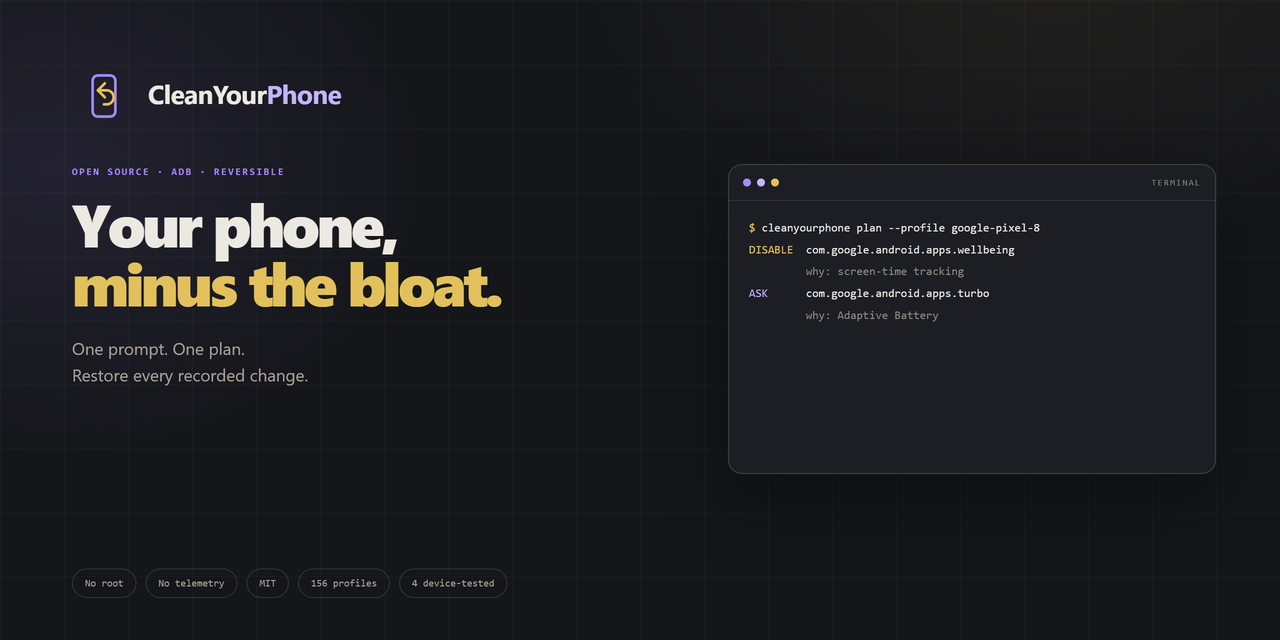
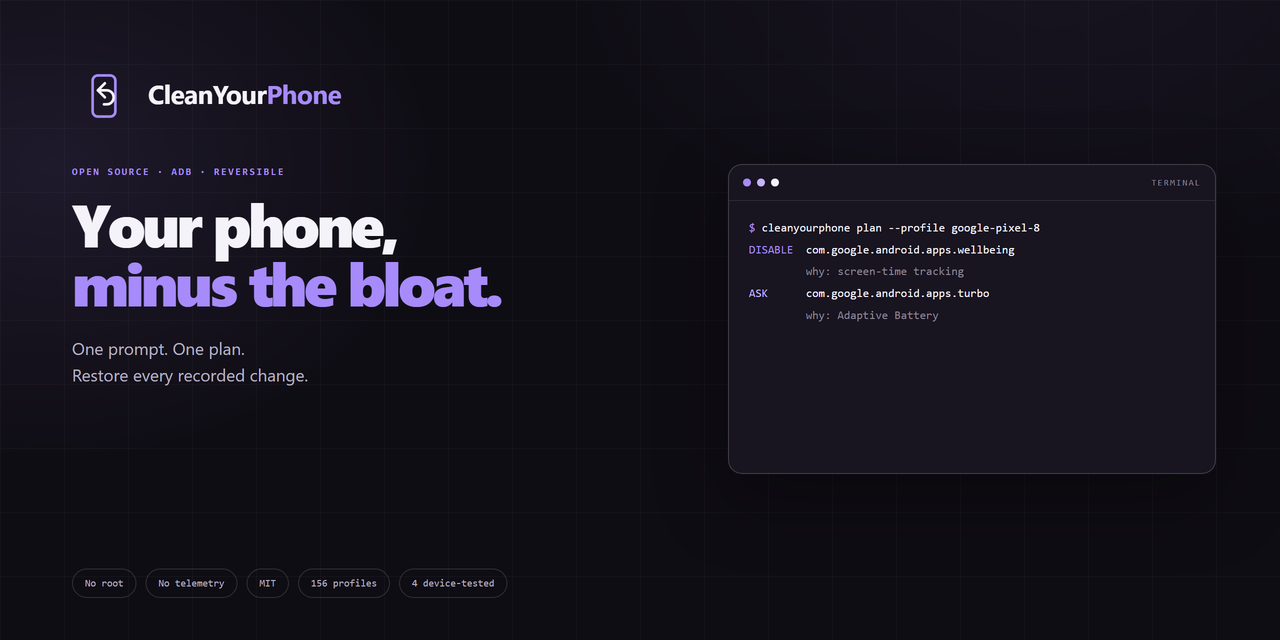
brand: unify on purple and white
- Use the logo purple #A78BFA as the only brand accent, with white text and graphite surfaces.\n- Keep only a light purple tint for ASK.\n- Update logo variants, banner, social preview, README badges and brand guide.

diff --git a/docs/BRAND.md b/docs/BRAND.md
@@ -46,14 +46,13 @@ never irreversible deletion.
 
 | Color | Role |
 |---|---|
-| Graphite `#15161A` | Primary background, icon tile, one-color mark on light surfaces. |
-| Violet `#A78BFA` | Phone structure, commands, links, secondary states and what stays intact. |
-| Gold `#E2C15C` | Return gesture, primary actions and headline accent. |
-| Lavender `#C4B5FD` | Only `ASK` and warning states; never a decorative accent. |
-| Text `#ECE9E2` | Headlines and wordmark on graphite. |
-| Muted `#A8A39B` | Secondary text; never part of the essential symbol. |
+| Graphite `#0F0D14` | Primary background, icon tile, one-color mark on light surfaces. |
+| Purple `#A78BFA` | Phone, return gesture, primary actions, links, commands and the `Phone` wordmark. |
+| Light purple `#C4B5FD` | Only `ASK` and warning states; a tint, never a second brand color. |
+| Text `#F5F3FA` | Headlines and the `CleanYour` wordmark on graphite. |
+| Muted `#B8B2C4` | Secondary text; never part of the essential symbol. |
 
-Gold, violet and lavender are functional accents, not decoration or gradients.
+Purple and white/graphite are the brand colors. The light purple is only a functional tint for `ASK`.
 
 ## Typography
 
@@ -62,8 +61,8 @@ Gold, violet and lavender are functional accents, not decoration or gradients.
 - **Mono:** `Cascadia Code`, `SFMono-Regular`, `Consolas`, `Liberation Mono`, monospace, for commands,
   package names, states and evidence.
 - The wordmark is always **CleanYourPhone**, with no spaces or alternate capitalization. In the color
-  version, **CleanYour** uses the text color and **Phone** uses lavender `#C4B5FD`; the monochrome
-  lockup stays one color.
+  version, **CleanYour** uses the text color and **Phone** uses the logo purple `#A78BFA`; the
+  monochrome lockup stays one color.
 
 ## Logo
 
@@ -77,7 +76,7 @@ from the previous mark is retired because it reads as generic "magic cleaner".
 |---|---|
 | `assets/logo.svg` | Primary app-icon tile, 64×64, dark background. |
 | `assets/favicon.svg` | Simplified 32×32 favicon. |
-| `assets/logo-mark.svg` | Mark-only, transparent, violet/gold. |
+| `assets/logo-mark.svg` | Mark-only, transparent, purple/white. |
 | `assets/logo-mono.svg` | One-color mark for light backgrounds. |
 | `assets/logo-lockup.svg` | Horizontal mark + wordmark for dark backgrounds. |
 | `assets/logo-lockup-mono.svg` | Horizontal mark + wordmark for light backgrounds. |
@@ -93,8 +92,8 @@ The same files exist in `cleanyourphone-web/assets/` for the website.
 
 ### Color use
 
-- Dark backgrounds: primary tile or the violet/gold mark.
-- Light backgrounds: the monochrome `#15161A` mark or mono lockup. Do not put the violet/gold mark on
+- Dark backgrounds: primary tile or the purple/white mark.
+- Light backgrounds: the monochrome `#0F0D14` mark or mono lockup. Do not put the purple/white mark on
   white or busy imagery.
 - Do not use color as the only state indicator in UI; pair it with a label.
 

diff --git a/README.es.md b/README.es.md
@@ -19,11 +19,11 @@
 
 <p align="center">
   <a href="https://github.com/jparedesDS/cleanyourphone/actions/workflows/ci.yml"><img src="https://github.com/jparedesDS/cleanyourphone/actions/workflows/ci.yml/badge.svg" alt="CI"></a>
-  <img src="https://img.shields.io/badge/license-MIT-e2c15c?labelColor=15161a" alt="MIT">
-  <img src="https://img.shields.io/badge/python-3.10%2B-e2c15c?labelColor=15161a" alt="Python 3.10+">
-  <img src="https://img.shields.io/badge/telemetry-none-e2c15c?labelColor=15161a" alt="Sin telemetría">
-  <img src="https://img.shields.io/badge/profiles-156-e2c15c?labelColor=15161a" alt="156 perfiles">
-  <a href="https://github.com/jparedesDS/cleanyourphone/releases"><img src="https://img.shields.io/github/v/release/jparedesDS/cleanyourphone?color=e2c15c&labelColor=15161a" alt="release"></a>
+  <img src="https://img.shields.io/badge/license-MIT-a78bfa?labelColor=0f0d14" alt="MIT">
+  <img src="https://img.shields.io/badge/python-3.10%2B-a78bfa?labelColor=0f0d14" alt="Python 3.10+">
+  <img src="https://img.shields.io/badge/telemetry-none-a78bfa?labelColor=0f0d14" alt="Sin telemetría">
+  <img src="https://img.shields.io/badge/profiles-156-a78bfa?labelColor=0f0d14" alt="156 perfiles">
+  <a href="https://github.com/jparedesDS/cleanyourphone/releases"><img src="https://img.shields.io/github/v/release/jparedesDS/cleanyourphone?color=a78bfa&labelColor=0f0d14" alt="release"></a>
 </p>
 
 # CleanYourPhone

diff --git a/README.md b/README.md
@@ -19,11 +19,11 @@
 
 <p align="center">
   <a href="https://github.com/jparedesDS/cleanyourphone/actions/workflows/ci.yml"><img src="https://github.com/jparedesDS/cleanyourphone/actions/workflows/ci.yml/badge.svg" alt="CI"></a>
-  <img src="https://img.shields.io/badge/license-MIT-e2c15c?labelColor=15161a" alt="MIT">
-  <img src="https://img.shields.io/badge/python-3.10%2B-e2c15c?labelColor=15161a" alt="Python 3.10+">
-  <img src="https://img.shields.io/badge/telemetry-none-e2c15c?labelColor=15161a" alt="No telemetry">
-  <img src="https://img.shields.io/badge/profiles-156-e2c15c?labelColor=15161a" alt="156 profiles">
-  <a href="https://github.com/jparedesDS/cleanyourphone/releases"><img src="https://img.shields.io/github/v/release/jparedesDS/cleanyourphone?color=e2c15c&labelColor=15161a" alt="release"></a>
+  <img src="https://img.shields.io/badge/license-MIT-a78bfa?labelColor=0f0d14" alt="MIT">
+  <img src="https://img.shields.io/badge/python-3.10%2B-a78bfa?labelColor=0f0d14" alt="Python 3.10+">
+  <img src="https://img.shields.io/badge/telemetry-none-a78bfa?labelColor=0f0d14" alt="No telemetry">
+  <img src="https://img.shields.io/badge/profiles-156-a78bfa?labelColor=0f0d14" alt="156 profiles">
+  <a href="https://github.com/jparedesDS/cleanyourphone/releases"><img src="https://img.shields.io/github/v/release/jparedesDS/cleanyourphone?color=a78bfa&labelColor=0f0d14" alt="release"></a>
 </p>
 
 # CleanYourPhone

diff --git a/CHANGELOG.md b/CHANGELOG.md
@@ -8,10 +8,10 @@ All notable changes to CleanYourPhone are documented here. The format is based o
 
 ### Changed
 
-- Final logo system and softened palette: graphite `#15161A`, violet `#A78BFA`, gold `#E2C15C` and
-  lavender `#C4B5FD` for warnings. The sparkle is replaced by a contained return arrow, and the
-  wordmark tints **Phone** in lavender. Primary, mark-only, monochrome, favicon and horizontal lockup
-  assets are included. The brand rules are in `docs/BRAND.md`.
+- Final logo system and two-color palette: graphite `#0F0D14`, purple `#A78BFA`, white `#F5F3FA`
+  and a light purple `#C4B5FD` tint only for `ASK`. The sparkle is replaced by a contained return
+  arrow, and the wordmark tints **Phone** in the logo purple. Primary, mark-only, monochrome,
+  favicon and horizontal lockup assets are included. The brand rules are in `docs/BRAND.md`.
 
 ## [0.2.1] - 2026-11-02
 
